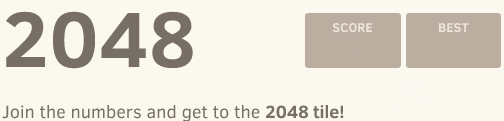
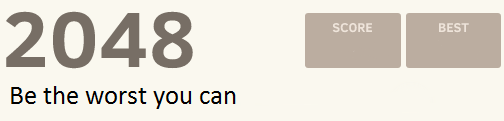
worst score 3*3

Changed region(s): [[0.0, 0.719, 0.6845, 1.0]]

diff --git a/2048Cordova/www/src/gamePlay/layer/GPTouchLayer.js b/2048Cordova/www/src/gamePlay/layer/GPTouchLayer.js
@@ -291,9 +291,9 @@ var GPTouchLayer = cc.Layer.extend({
 
                         score += merged.value;
 
-                        // The mighty 2048 tile
+                        // if max score reached, playe has no chance to beat the least score...
                         if (merged.value === GC.winValue) {
-                            self.won = true;
+                            self.won = false;// so it's a lost game
                             self.gameOver();
                         }
                     } else {
@@ -443,10 +443,10 @@ var GPTouchLayer = cc.Layer.extend({
         this.lbAdd.stopAction();
         this.lbAdd.runAction(seqAction);
 
-        if (this.score > this.best) {
-            this.best = this.score;
-            this.lbBest.string = this.best.toString();
-        }
+        //if (this.score > this.best) {
+        //    this.best = this.score;
+        //    this.lbBest.string = this.best.toString();
+        //}
         this.lbScore.string = this.score.toString();
     },
     retestGame: function() {
@@ -473,6 +473,14 @@ var GPTouchLayer = cc.Layer.extend({
             opacity: 76
         });
         this.addChild(this.resultWin);
+        
+        //  if that beats the least score !
+        if (this.best == 0 || this.score < this.best) { // best is now the lowest
+            this.best = this.score;
+            this.lbBest.string = this.best.toString();
+            self.won = true;
+        }
+        
         this.lbResult = new cc.Sprite(this.won ? '#result_success.png' : '#result_failed.png');
         this.lbResult.attr({
             x: GC.w_2,

diff --git a/2048Cordova/www/src/config/GameConfig.js b/2048Cordova/www/src/config/GameConfig.js
@@ -16,7 +16,7 @@ GC.h_2 = GC.h / 2;
 
 GC.gap = 16;
 
-GC.size = 4;
+GC.size = 3;
 
 GC.startTiles = 2;
 
